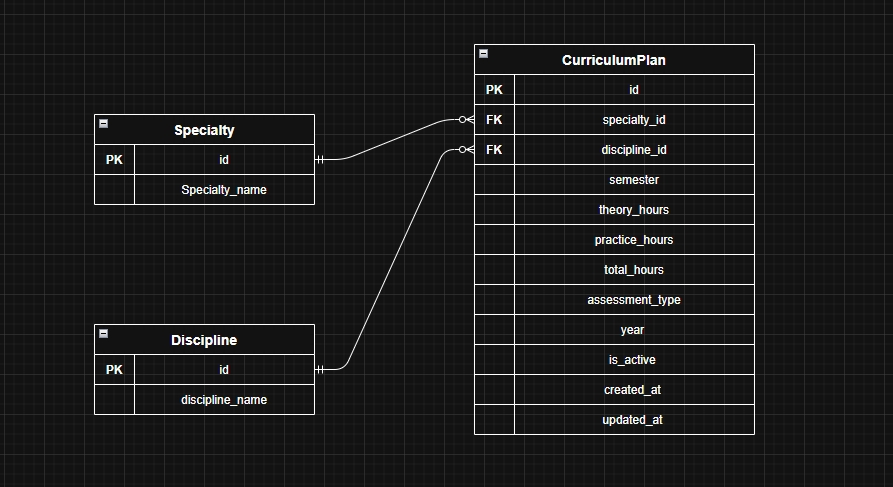
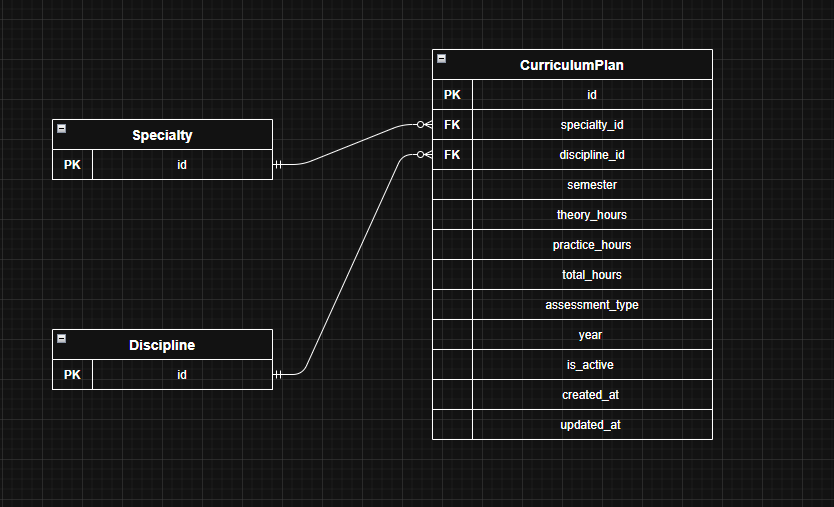
Внесены изменения

diff --git a/S12/models.py b/S12/models.py
@@ -74,8 +74,7 @@ class CurriculumPlan(BaseModel):
 
     @classmethod
     def get_list(cls, specialty_id=None, discipline_id=None, semester=None,
-                 year=None, assessment_type=None, is_active=True,
-                 limit=100, offset=0):
+                 year=None, assessment_type=None, is_active=True,offset=0):
         """Получить список записей по фильтрам."""
         query = cls.select().where(cls.is_active == is_active)
 
@@ -129,7 +128,7 @@ def init_db():
     """Создание таблиц и заполнение начальными данными"""
     db.connect()
     db.create_tables([Specialty, Discipline, CurriculumPlan], safe=True)
-    
+
 if __name__ == '__main__':
     init_db()
     print("База данных curriculum_plan.db успешно инициализирована.")
